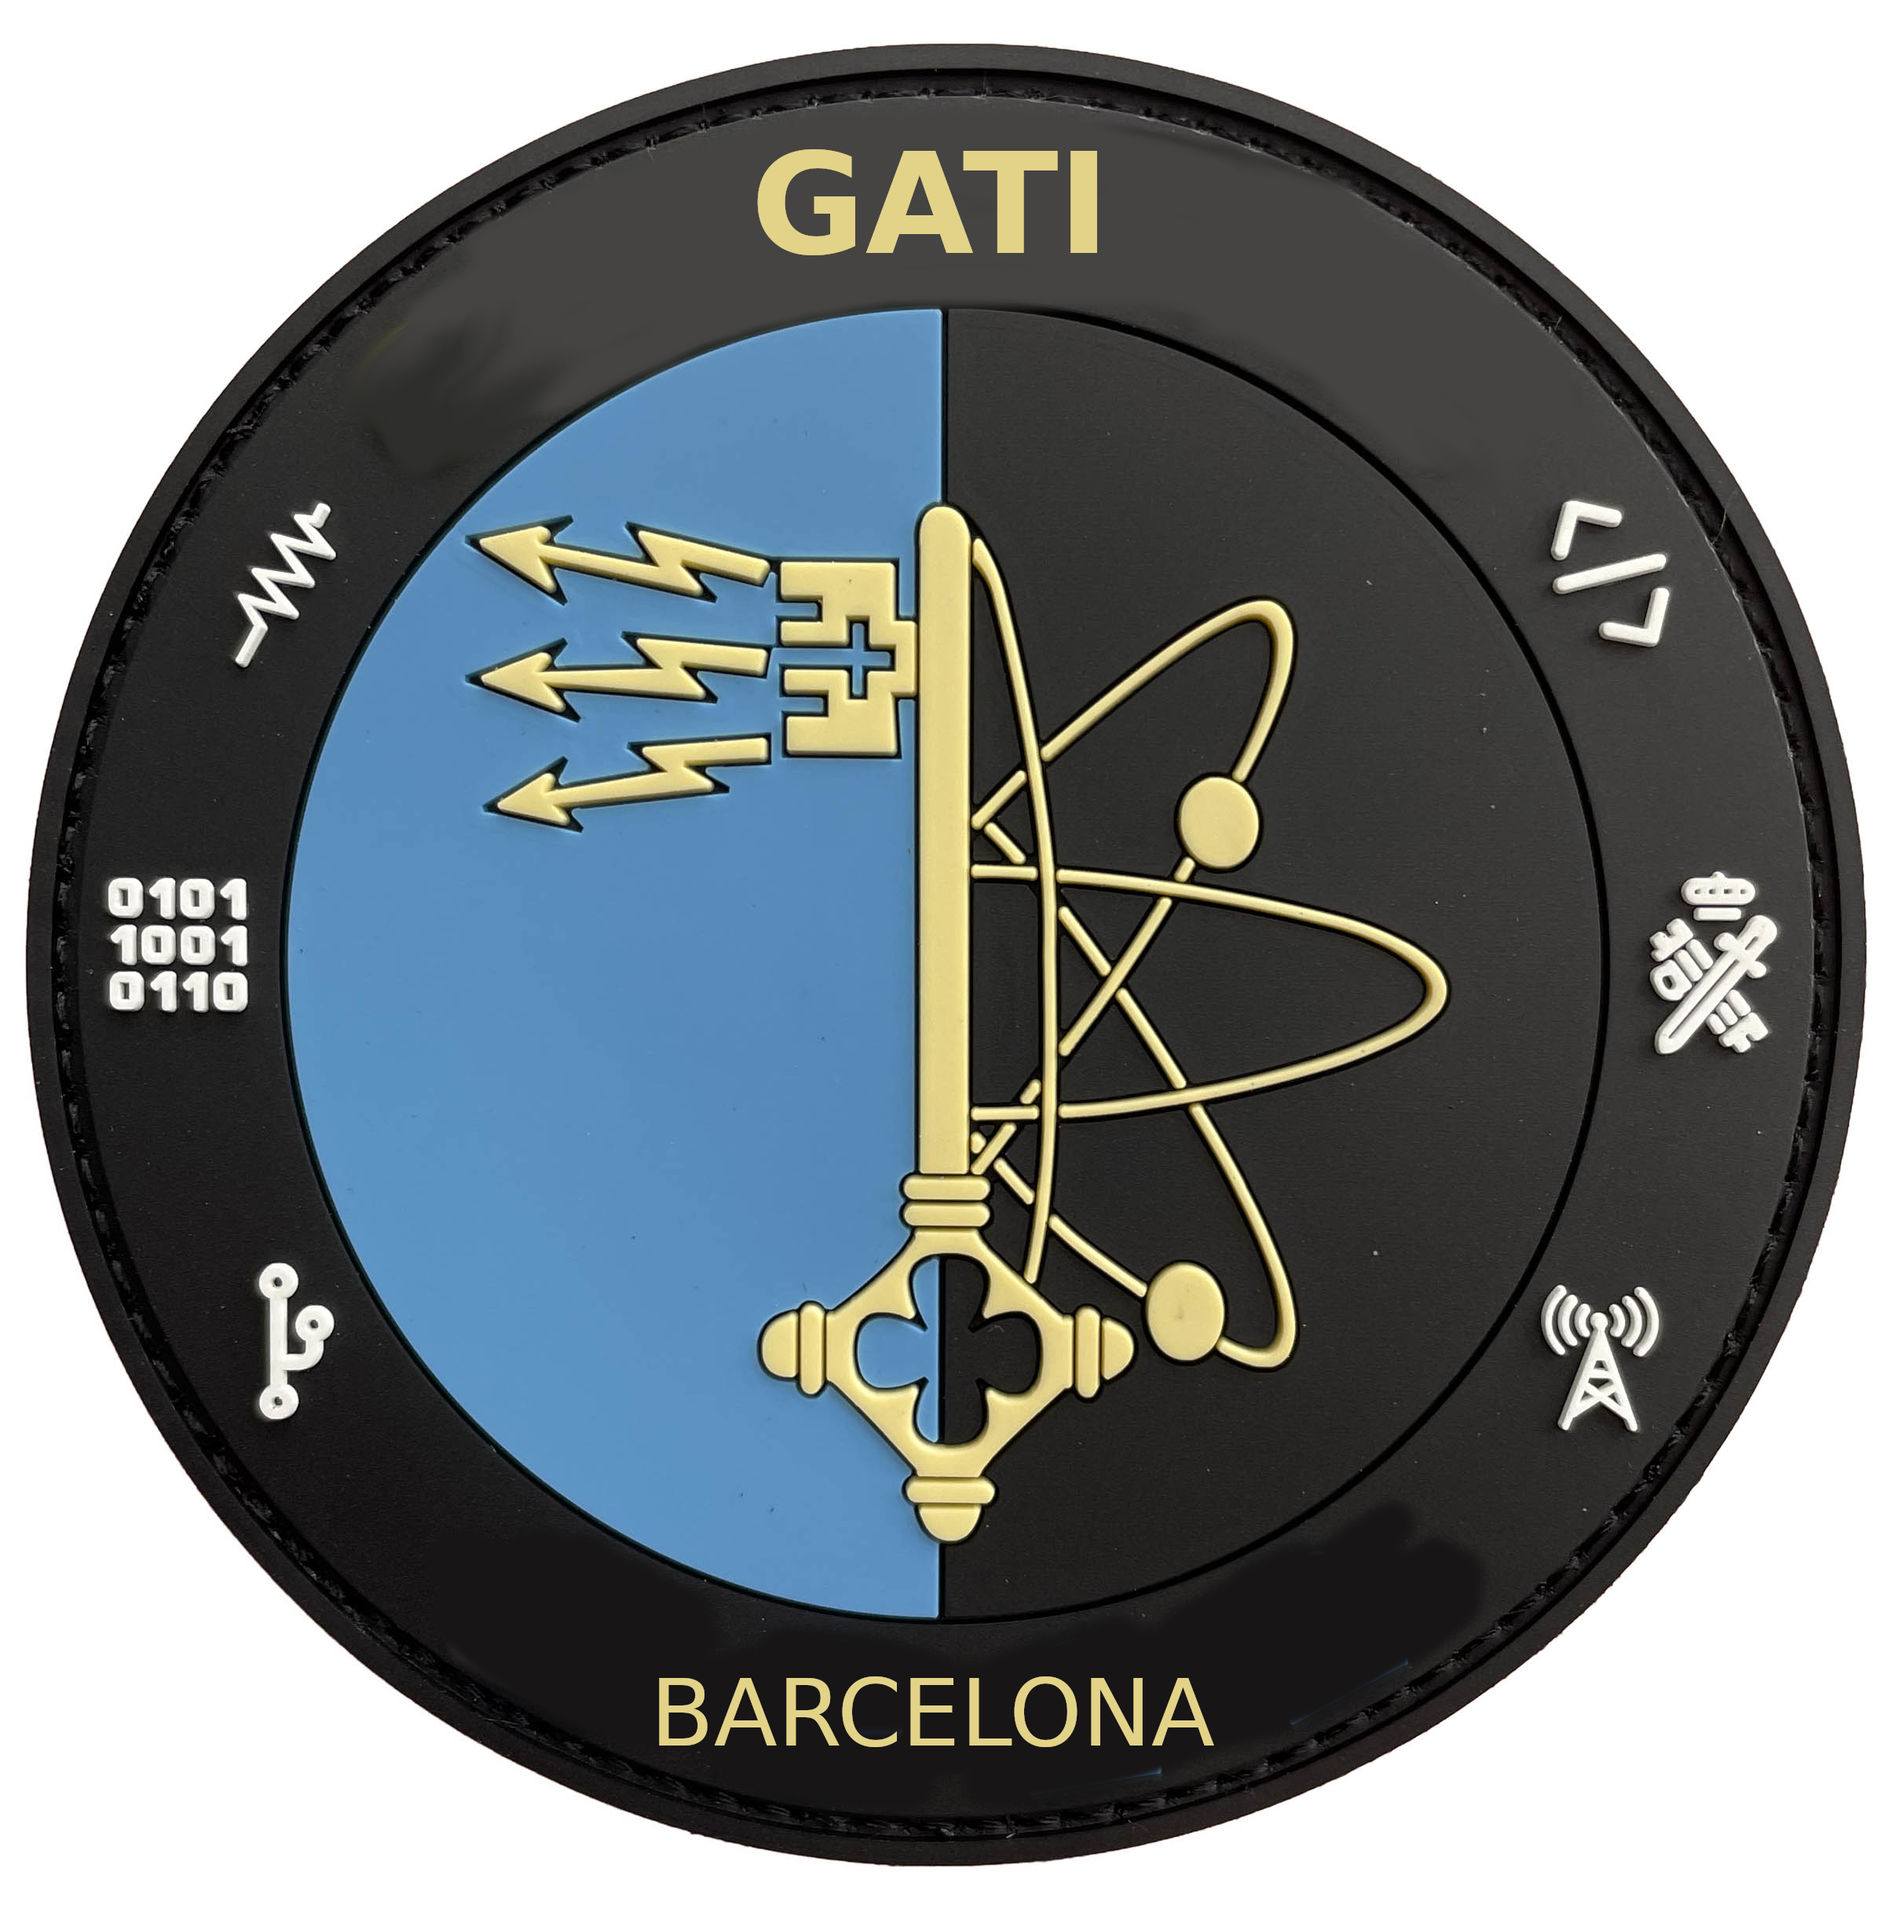
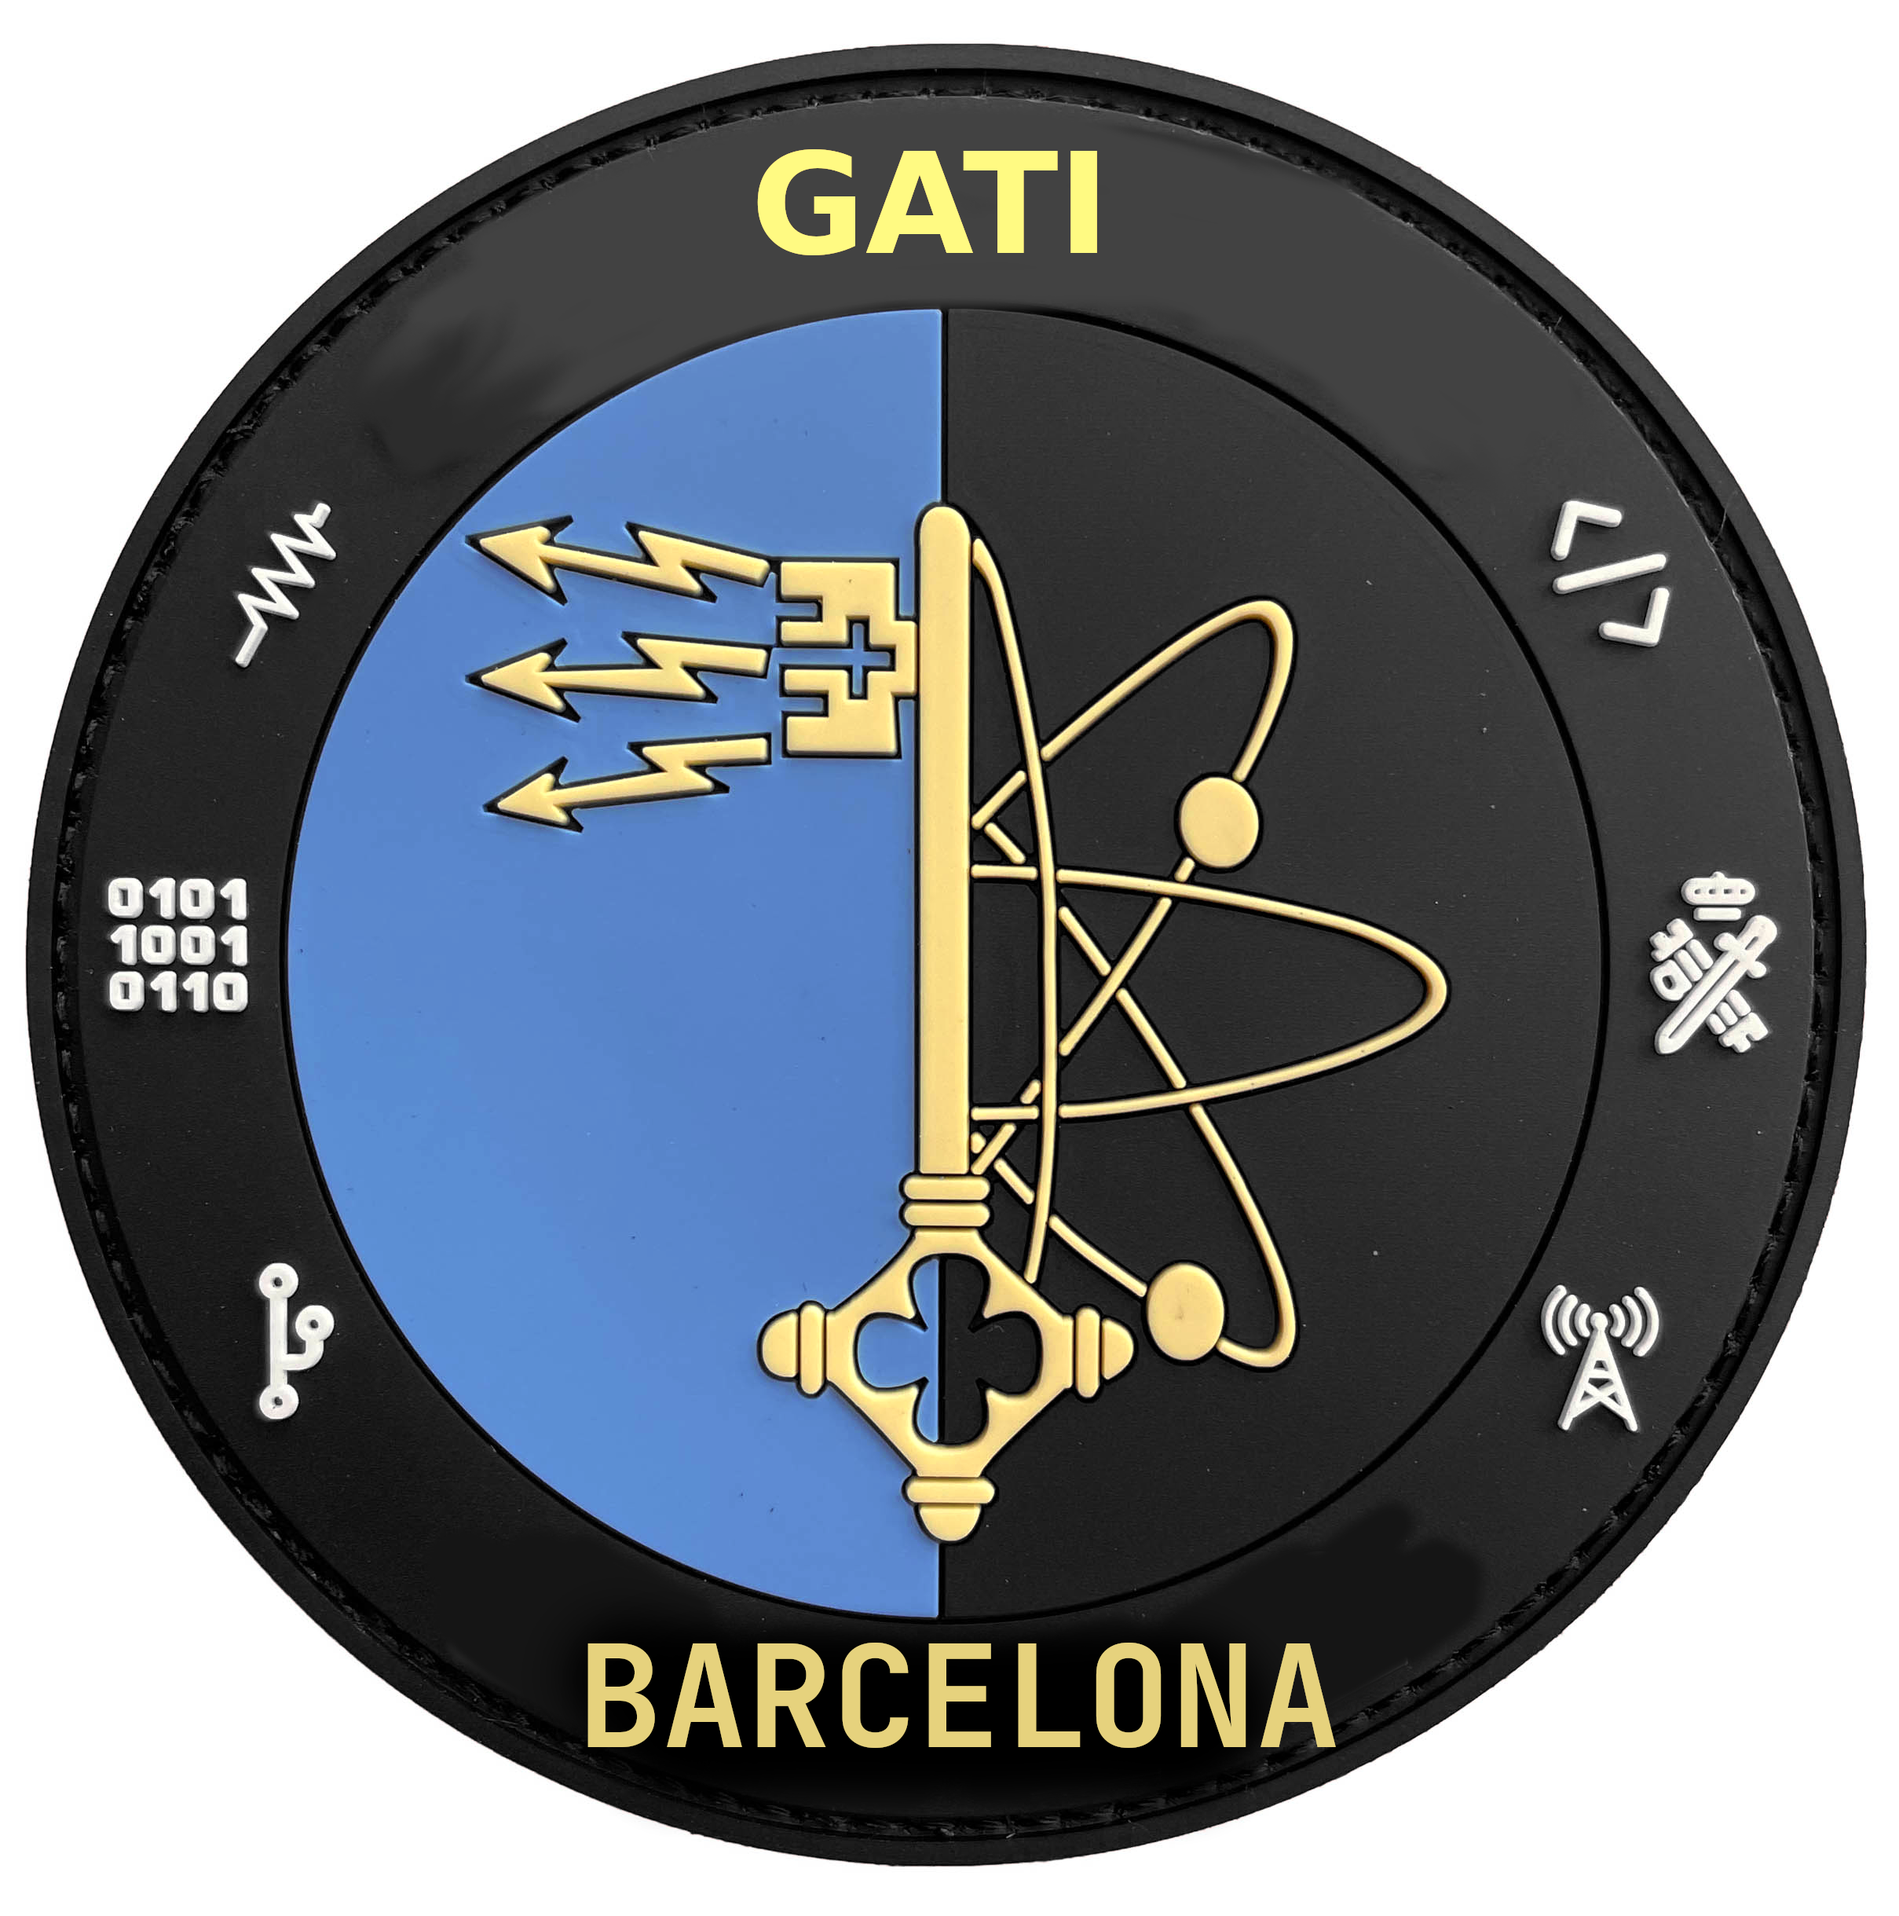
Update footer and view GATI

Changed region(s): [[0.3102, 0.8413, 0.7134, 0.9348], [0.4032, 0.0623, 0.5893, 0.1558]]

diff --git a/resources/css/styles.css b/resources/css/styles.css
@@ -11522,4 +11522,65 @@ textarea.form-control-lg {
   flex-flow: row wrap;
 }
 
-/* Add  Button */
+/* VERTICAL NAV-BAR */
+
+
+.navbar-vertical{
+  width: 150px;
+  height: 100vh;
+  padding: 0.5rem 1rem;
+  position: absolute;
+  transition: left 0.31s;
+  left: 0;
+  top: 0
+}
+ 
+  .navbar-brand {
+    margin-right: 0;
+    padding-right: 1.5rem;
+    display: block
+
+  }
+   
+  .navbar-toggler {
+    border: none;
+    padding: 0;
+    display: inline-block;
+    position: absolute;
+    right: 0.5rem;
+    top: 0.75rem;
+    cursor: pointer
+  }
+   
+  ul.navbar-nav {
+    width: 100%;
+    margin-top: 1rem
+  }
+
+  /** MINI FOOTER **/
+.footer {
+  position: fixed;
+  left: 0;
+  bottom: 0;
+  width: 100%;
+  height: 30px; /* Altura del footer */
+  background: #192027;
+  text-align: center;
+  color: #999;
+  
+  
+}
+.footer p {
+  margin: 0;
+  font-size: 15px;
+  background-color: #000;
+}
+
+.footer p a {
+  color: #5867dd;
+  background-color: #000;
+}
+
+.footer p a:hover {
+  color: #34bfa3;
+}

diff --git a/view/view_gati.php b/view/view_gati.php
@@ -2,14 +2,9 @@
 include('header.php');
 ?>
 
-<nav class="navbar navbar-expand-lg navbar-dark bg-dark">
-  <img src="../resources/img/parche-GATI.png" width="150" height="150" alt="">
-  
-  <button class="navbar-toggler" type="button" data-toggle="collapse" data-target="#navbarNav" aria-controls="navbarNav" aria-expanded="false" aria-label="Toggle navigation">
-    <span class="navbar-toggler-icon"></span>
-  </button>
-  <div class="collapse navbar-collapse" id="navbarNav">
-    <ul class="navbar-nav">
+<nav class="navbar-dark bg-dark navbar-vertical show">
+  <ul class="navbar-nav">
+  <img src="../resources/img/parche-GATI.png" width="100" height="100" alt="" class="footer-img">
       <li class="nav-item active">
         <a class="nav-link" href="#">Home <span class="sr-only">(current)</span></a>
       </li>
@@ -19,12 +14,8 @@ include('header.php');
       <li class="nav-item">
         <a class="nav-link" href="#">Pricing</a>
       </li>
-      <li class="nav-item">
-        <a class="nav-link disabled" href="#">Disabled</a>
-      </li>
     </ul>
-  </div>
 </nav>
-<script src="https://code.jquery.com/jquery-3.5.1.slim.min.js"></script>
-  <script src="https://cdn.jsdelivr.net/npm/@popperjs/core@2.5.4/dist/umd/popper.min.js"></script>
-  <script src="https://stackpath.bootstrapcdn.com/bootstrap/4.5.2/js/bootstrap.min.js"></script>
+<?php
+include('footer.php');
+?>

diff --git a/view/footer.php b/view/footer.php
@@ -1,2 +1,15 @@
+<footer class="footer">
+  <div class="mini-footer bg-light">
+    <div class="container-fluid">
+      <div class="row">
+        <div class="col-md-12">
+          <div class="text-left">
+            <p class="text-left">© 2023 <a href="#">JSenen</a>. All rights reserved. Created by <a href="#">GATI BARCELONA</a></p>
+          </div>
+        </div>
+      </div>
+    </div>
+  </div>
+</footer>
 </body>
 </html>
